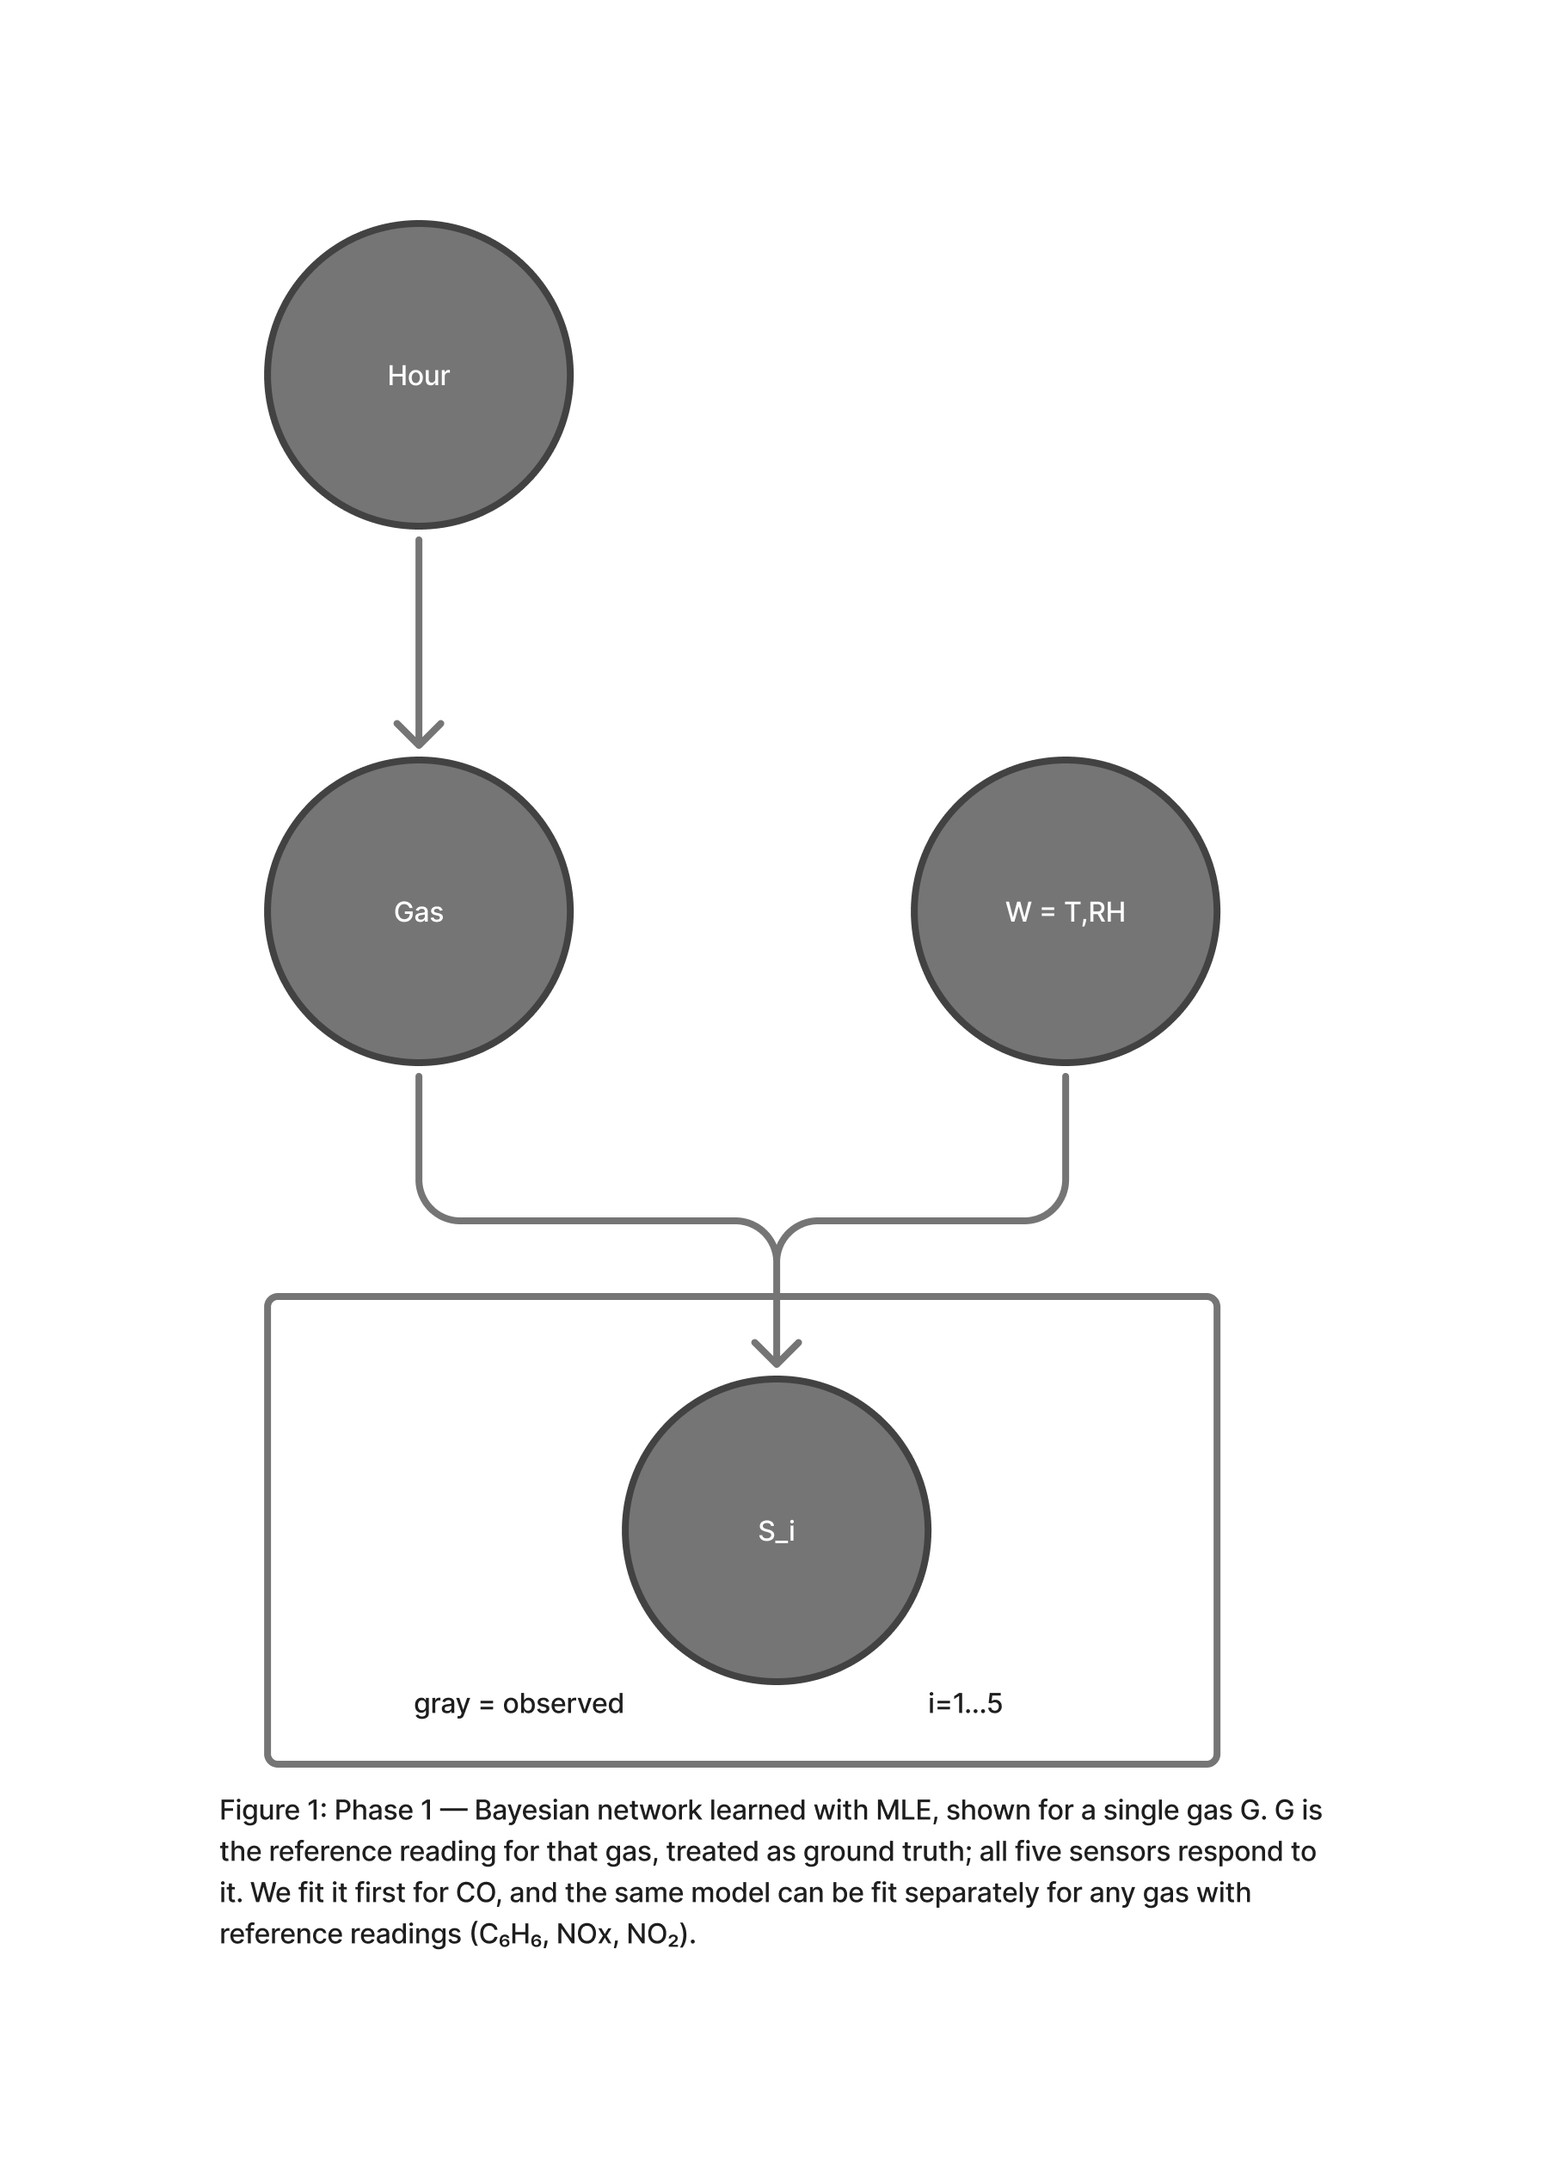
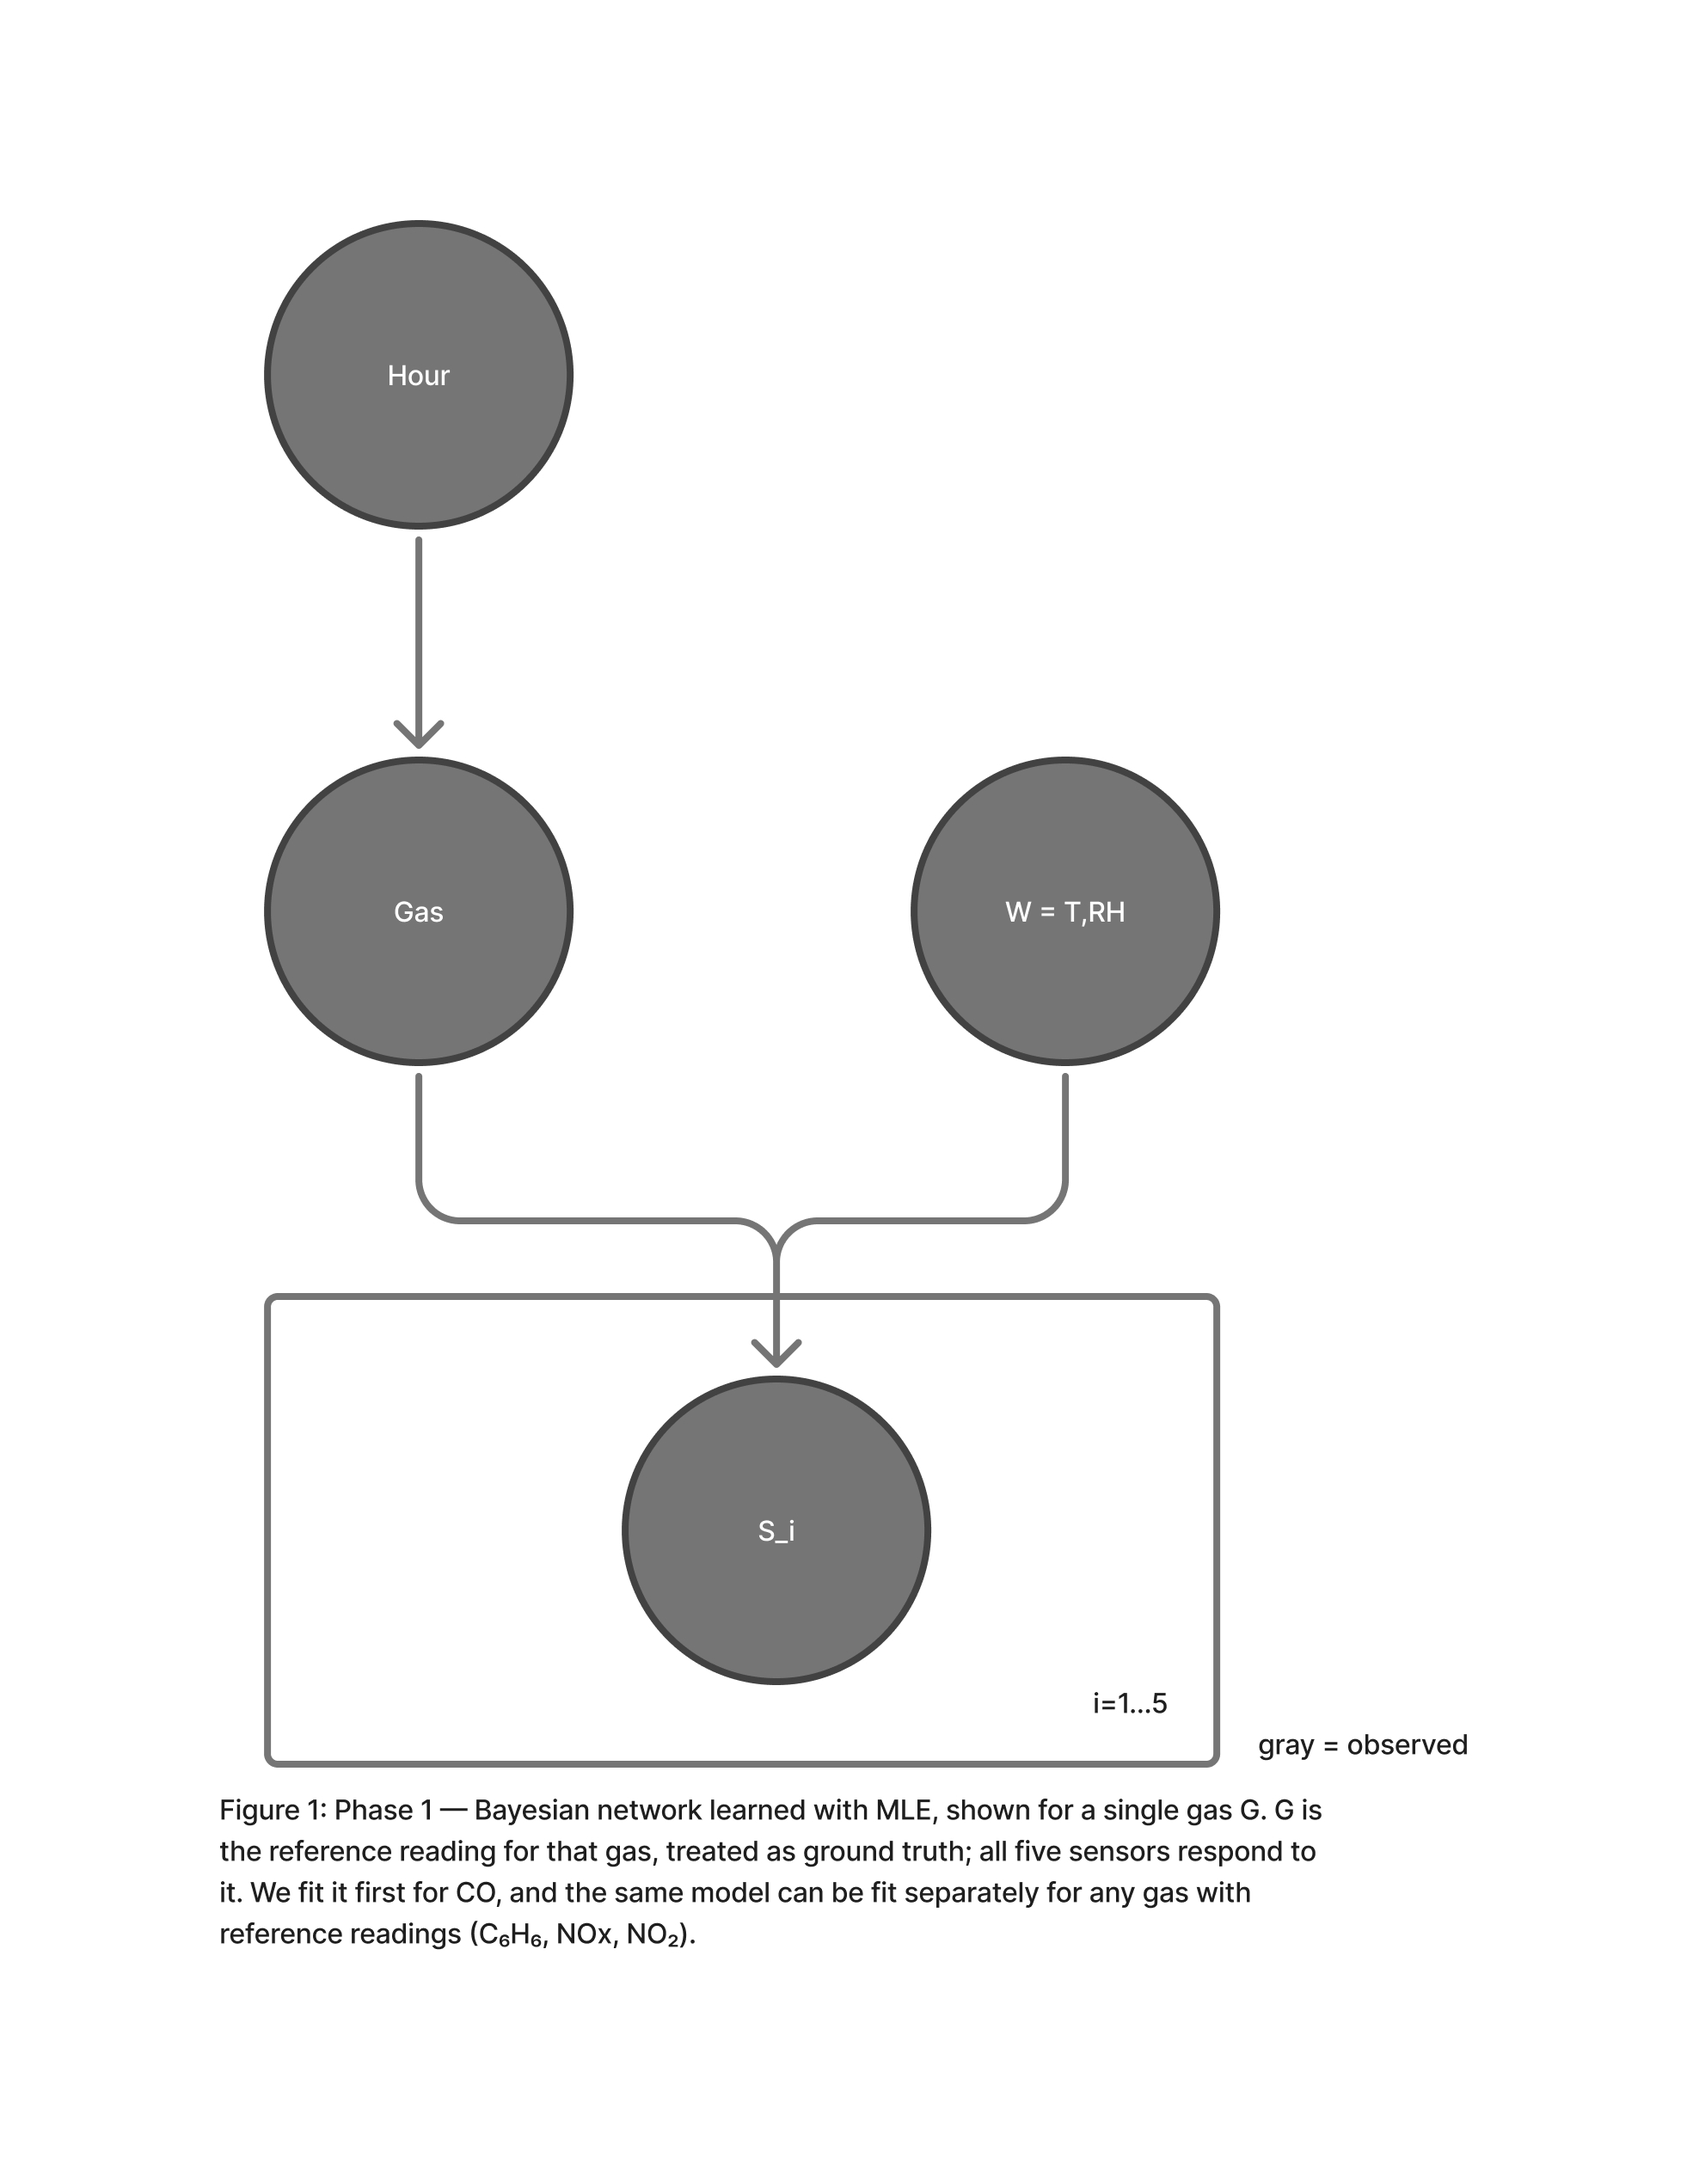
update to roadmap and figures for correctness

diff --git a/ROADMAP.md b/ROADMAP.md
@@ -1,78 +1,94 @@
 # Model Roadmap
 
+**Goal:** estimate **air quality hour by hour** from low-cost sensors alone. The model infers each gas's true level from the sensor readings, then combines those levels into an hourly air quality rating (AQ).
+
 Each phase changes **one thing** from the phase before it, so every comparison isolates a single modeling choice. All phases share the same data module, discretization levels, time-based train/test split, and evaluation.
 
 | Phase | Structure | Learning | Question it answers |
 |---|---|---|---|
-| 1 | CO only: `Hour → CO → Sᵢ ← W`, i = 1…5 | MLE | Baseline: how well do the sensors recover CO? |
-| 2 | One gas per sensor (nominal pairing) | MLE | Does modeling each sensor's own target gas help? |
-| 3 | Phase 2 structure, true gas levels latent | EM | Does using hours with missing reference readings help? |
-| 4 (reach) | Phase 3's latent CO chained hour to hour | Baum–Welch (EM for HMMs) | Does temporal structure help? |
+| 1 | Single gas: `Hour → Gas → Sᵢ ← W`, i = 1…5 | MLE | Baseline: how well do the sensors recover one gas? |
+| 2 | One gas per sensor (plate over gases) | MLE | Does pairing each sensor with its own target gas help? |
+| 3 | Phase 2 with latent gas levels | EM | Does using hours with missing reference readings help? |
+| 4 | Phase 3 chained hour to hour (HMM) | Baum–Welch | Does temporal structure help? |
+| AQ | Computed on top of Phases 2–4 | none (deterministic) | How well can hourly air quality be predicted from sensors alone? |
 
-`W` = weather (temperature `T` and relative humidity `RH`).
+`W` = weather (temperature `T` and relative humidity `RH`). Gases with reference readings: g ∈ {CO, NMHC, NOₓ, NO₂} (C₆H₆ only via the cross-sensitivity extension).
 
 ---
 
-## Phase 1: CO-only Bayesian network (MLE)
+## Phase 1: Single-gas Bayesian network (MLE)
 
-**Structure:** `Hour → CO`, `CO → S₁…S₅`, `W → S₁…S₅`. All five sensors are treated as responding to CO.
-**Observed:** everything. `CO` is the reference reading `CO(GT)`.
-**Learning:** maximum likelihood (normalized counts) on hours where CO and the sensors are observed.
-**Inference:** P(CO | Hour, S₁…S₅, W).
+**Structure:** `Hour → Gas`, `Gas → S₁…S₅`, `W → S₁…S₅`. All five sensors are treated as responding to one gas.
+**Observed:** everything. `Gas` is that gas's reference reading, treated as ground truth.
+**Learning:** maximum likelihood (normalized counts) on hours where the gas and sensors are observed.
+**Inference:** P(Gas | Hour, S₁…S₅, W).
+**Scope:** fit first for CO; the same model can be fit separately for any gas with reference readings.
 **Figure:** `phase-1.jpg`
 
 **Assumptions**
-- Sensors are conditionally independent given CO and weather.
+- Sensors are conditionally independent given the gas level and weather.
 - Hours are independent of each other.
 - The reference analyzer is error-free.
 
 ## Phase 2: One gas per sensor (MLE)
 
-**Structure:** one node per gas, each with its nominal sensor:
+**Structure:** a plate over gases. Inside: `Gas_g → S_g`. Outside, shared by all gases: `Hour → every Gas_g`, `W → every S_g`.
 
 | Gas | Reference column | Sensor |
 |---|---|---|
 | CO | `CO(GT)` | `S₁` (PT08.S1) |
 | NMHC | `NMHC(GT)` | `S₂` (PT08.S2) |
-| NOx | `NOx(GT)` | `S₃` (PT08.S3) |
-| NO2 | `NO2(GT)` | `S₄` (PT08.S4) |
+| NOₓ | `NOx(GT)` | `S₃` (PT08.S3) |
+| NO₂ | `NO2(GT)` | `S₄` (PT08.S4) |
 
-Plus `Hour → every gas` and `W → every sensor`.
 **Learning:** MLE, counting each CPT on the hours where its own variables are observed (avoids discarding hours where an unrelated gas is missing).
-**Compared to Phase 1:** CO is now inferred from `S₁` alone instead of all five sensors. If Phase 1 does better, the other sensors carry real information about CO, which is the cross-sensitivity argument.
+**Compared to Phase 1:** CO is inferred from `S₁` alone instead of all five sensors. If Phase 1 does better, the other sensors carry real information about CO (the cross-sensitivity argument).
+**Figure:** `phase-2.jpg`
 
 **Open questions for the EDA**
-- **NMHC:** if its reference is mostly missing, Phase 2 may need to drop it (and `S₂` loses its gas).
-- **`S₅` (ozone):** there is no O3 reference, so `S₅` has no gas parent in this phase.
-- **Benzene:** has a reference (`C6H6(GT)`) but no dedicated sensor, so it can't be estimated here; see the cross-sensitivity extension.
+- **NMHC:** if its reference is mostly missing, drop it (and `S₂` loses its gas).
+- **`S₅` (ozone):** there is no O₃ reference, so `S₅` has no gas parent.
+- **Benzene:** has a reference but no dedicated sensor; see the cross-sensitivity extension.
 
 ## Phase 3: Latent gas levels (EM)
 
-**Structure:** Phase 2 with each gas split into a latent true level `Z_g` and its reference reading: `Z_g → Ref_g`, `Z_g → nominal sensor`.
-**Observed:** `Hour`, sensors, `W` always; `Ref_g` sometimes; `Z_g` never.
-**Learning:** EM over all hours. E-step: posterior over the latent levels given whatever is observed (missing references are marginalized). M-step: re-estimate CPTs from expected counts. Initialize P(Ref_g | Z_g) near the identity so latent states line up with concentration levels.
-**Inference:** P(Z_g | Hour, sensors, W) with references hidden on test hours.
+**Structure:** Phase 2 with each gas split into a latent true level `Gas_g` and its reference reading: `Gas_g → Ref_g`, `Gas_g → S_g` (inside the plate).
+**Observed:** `Hour`, sensors, and `W` always; `Ref_g` sometimes; `Gas_g` never.
+**Learning:** EM over all hours. E-step: posterior over the latent levels given whatever is observed (missing references are marginalized). M-step: re-estimate CPTs from expected counts. Initialize P(Ref_g | Gas_g) near the identity so latent states line up with concentration levels.
+**Inference:** P(Gas_g | Hour, sensors, W) with references hidden on test hours.
 **Additional assumption:** missing reference values are missing at random.
-**Figure:** multi-gas network (solid edges only)
+**Figure:** `phase-3.jpg`
 
 ### Optional extension: cross-sensitivity edges
-Add edges from a gas to sensors other than its nominal one, chosen from EDA correlations (placeholders: `Z_CO → S₂`, `Z_C6H6 → S₂`, `Z_NOx → S₅`). This gives benzene sensor evidence and lets `S₅` contribute. The dashed edges in the multi-gas figure show this variant.
+Add edges from a gas to sensors other than its nominal one, chosen from EDA correlations (placeholders: `Gas_CO → S₂`, `Gas_C6H6 → S₂`, `Gas_NOx → S₅`). This gives benzene sensor evidence and lets `S₅` contribute. Shown by the dashed edges in the multi-gas figure (`cross-sensitivity.jpg`).
 
-## Phase 4 (reach): HMM over hours
+## Phase 4: HMM over hours (Baum–Welch)
 
-**Structure:** Phase 3 reduced to CO; `Z_CO,t−1 → Z_CO,t` replaces `Hour → Z_CO`. Each hour's `Ref_CO,t` and sensors are emissions, with `W_t` as an input.
-**Learning:** Baum–Welch. Missing emissions are skipped (probability 1).
-**Inference:** forward–backward for P(Z_t | all hours); Viterbi for the most likely level sequence.
+**Structure:** Phase 3 unrolled over time. Each hour is one time slice containing the gas plate and `W`. Each gas's latent level carries over to the same gas next hour: `Gas_g,t−1 → Gas_g,t`. `Hour` is dropped; the transitions replace it.
+**Consequence:** with no edges between gases, this is **one independent HMM per gas**, each with a small chain (3 states at 3 levels), rather than one joint chain over every combination of gas levels.
+**Learning:** Baum–Welch per gas. Missing emissions are skipped (probability 1).
+**Inference:** forward–backward for P(Gas_g,t | all hours); Viterbi for the most likely level sequence.
 **Hypothesis:** neighboring hours help most during reference-analyzer gaps.
-**Figure:** `phase-3.jpg` (rename to `phase-4.jpg`)
+**Figure:** `phase-4.jpg`
+
+## Air quality output
+
+**Node:** `AQ` (or `AQ_t` per hour in Phase 4), a child of the gas-level nodes, outside the gas plate. It is **deterministic**: the worst band across the gases, following how air quality indices rate an hour by its worst pollutant. It has no learned parameters and isn't observed.
+**Added on top of:** Phases 2–4 (in Phase 1 it reduces to the single gas's band). Because nothing is learned, it can be computed after training without refitting.
+**Query:** P(AQ_t | sensors, W), combining each gas's posterior; in Phase 4, an hour-by-hour AQ timeline.
+**Evaluation:** compute the true AQ from reference readings on held-out hours with the same rule, then compare with the prediction from sensors alone.
+
+**Requirements**
+- **Standard-based bins** for every gas feeding AQ, so "fair" means the same thing for each gas. This must be decided at the start, since bins are shared by all phases.
+- **Only gases with usable hourly standards feed AQ.** NO₂ has hourly bands; CO and benzene standards use 8-hour or long-term averages. Either restrict AQ to those gases or state the averaging mismatch as a limitation.
 
 ---
 
 ## Shared setup (all phases)
 
 - **Data module:** one loader (`-200` → NaN), one discretization, one time-based split (contiguous blocks, so neighboring hours don't leak between train and test).
-- **Evaluation:** on held-out hours with a reference reading, hide the reference, infer it, and report accuracy of the most probable level, held-out log-likelihood, and a confusion matrix.
-- **Configurations to sweep:** discretization levels (3 / 5 / 7); quantile vs. air-quality-standard bins; `T + RH` vs. `T + AH`; with vs. without weather edges.
+- **Evaluation:** on held-out hours with a reference reading, hide the reference, infer it, and report accuracy of the most probable level, held-out log-likelihood, and a confusion matrix. Report AQ accuracy the same way.
+- **Configurations to sweep:** discretization levels (3 / 5 / 7); quantile vs. air-quality-standard bins; `T + RH` vs. `T + AH`; with vs. without weather edges; with vs. without cross-sensitivity edges.
 
 ---
 <sub>**AI use:** Roadmap drafted with assistance from Claude (Anthropic, Claude Opus 5.5) and reviewed and edited by Kiernan.</sub>
